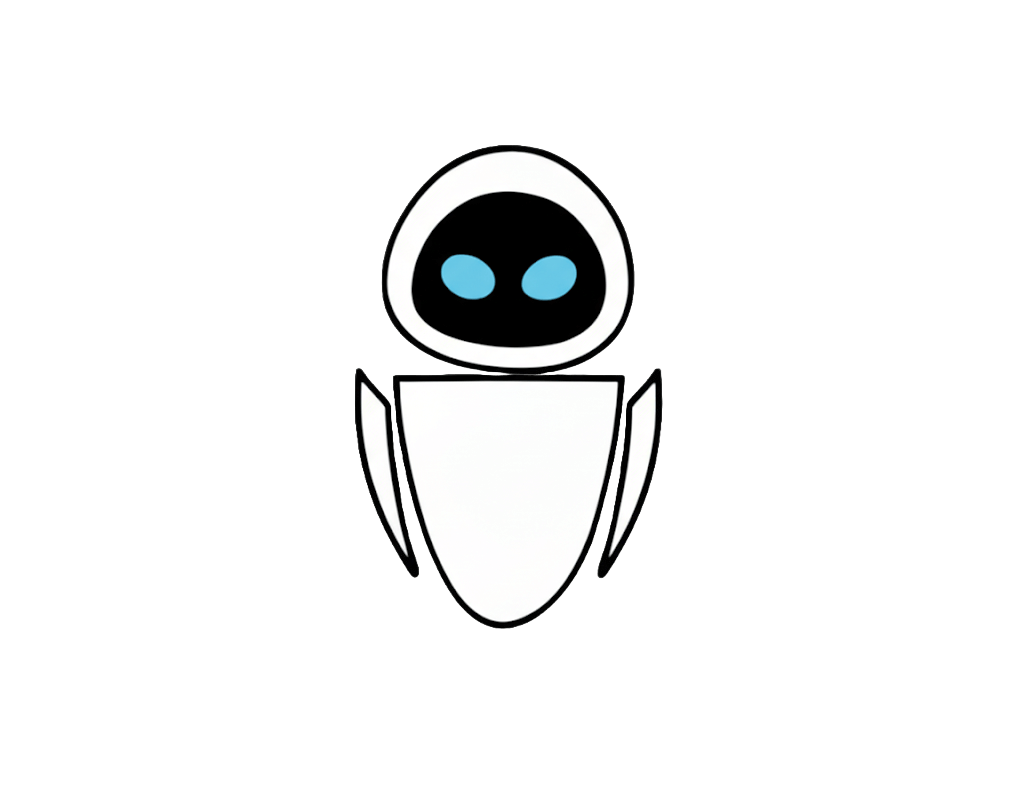
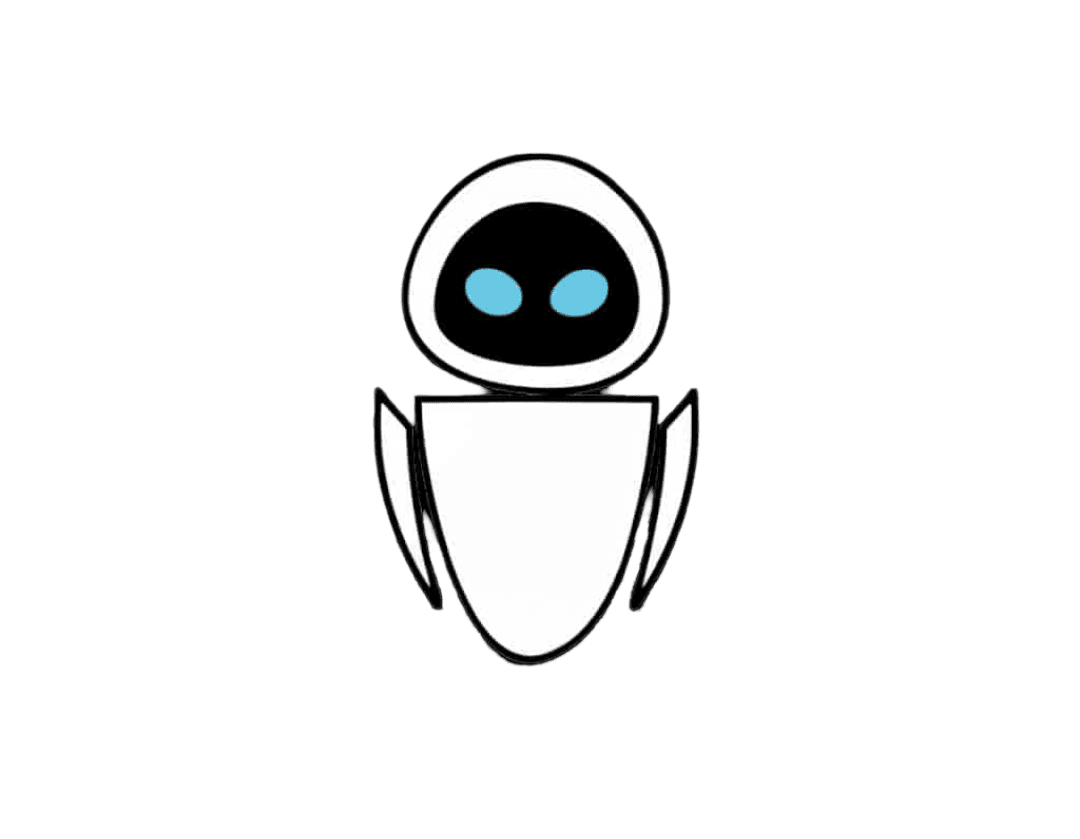
🖼 UPDATE: EVE image fond transparent
- Nouvelle version eve.png: 52K → 18.9K (-64%)
- Fond transparent pour meilleure intégration
- Maintien qualité visuelle optimale

🤖 Generated with [Claude Code](https://claude.ai/code)

diff --git a/site-complet.html b/site-complet.html
@@ -8203,7 +8203,7 @@ RÉSERVER MON AUDIT GRATUIT
     
     <!-- BOULE FLOTTANTE -->
     <div class="floating-chat-ball" id="chatBall">
-        <img src="eve.jpg" alt="EVE Assistant" style="width: 50px; height: auto; filter: brightness(1.1);" loading="lazy">
+        <img src="eve.png" alt="EVE Assistant" style="width: 50px; height: auto; filter: brightness(1.1);" loading="lazy">
         <div class="notification-badge" id="notificationBadge">!</div>
     </div>
 
